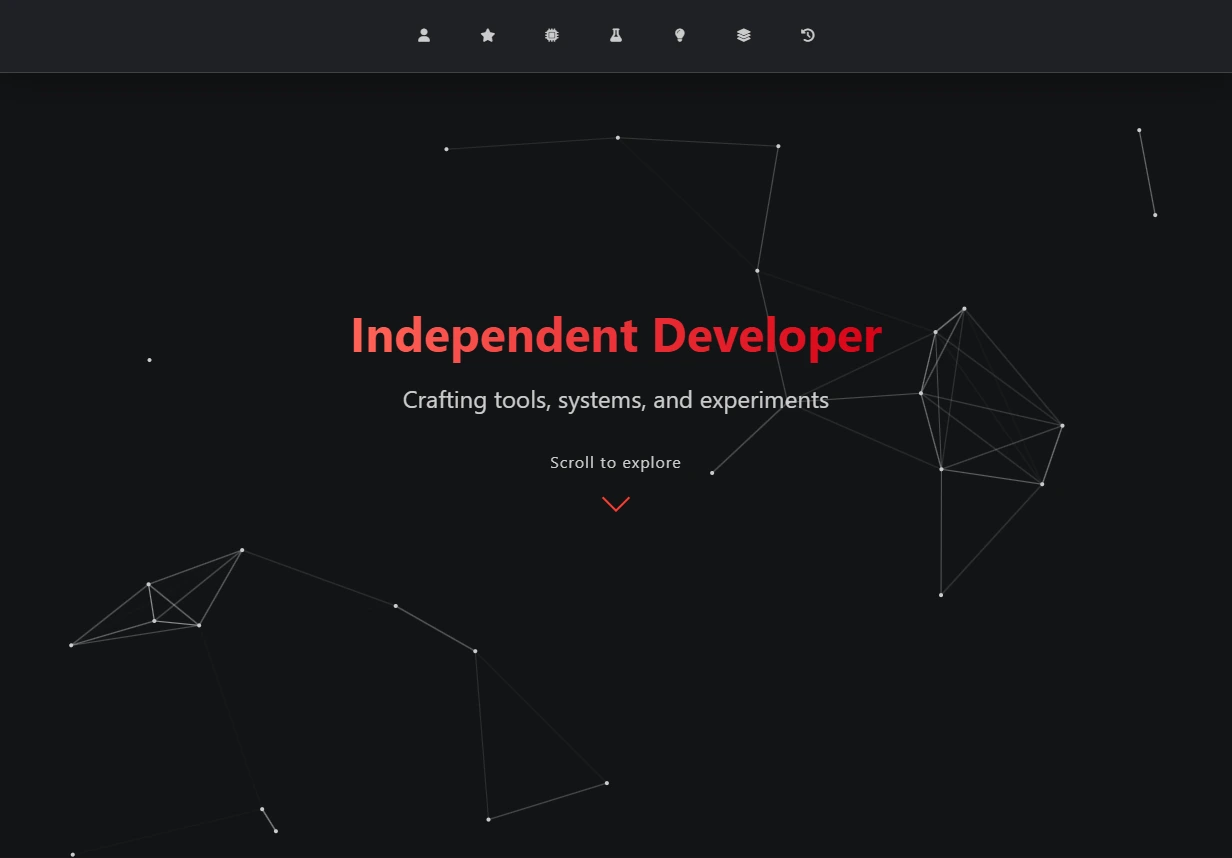
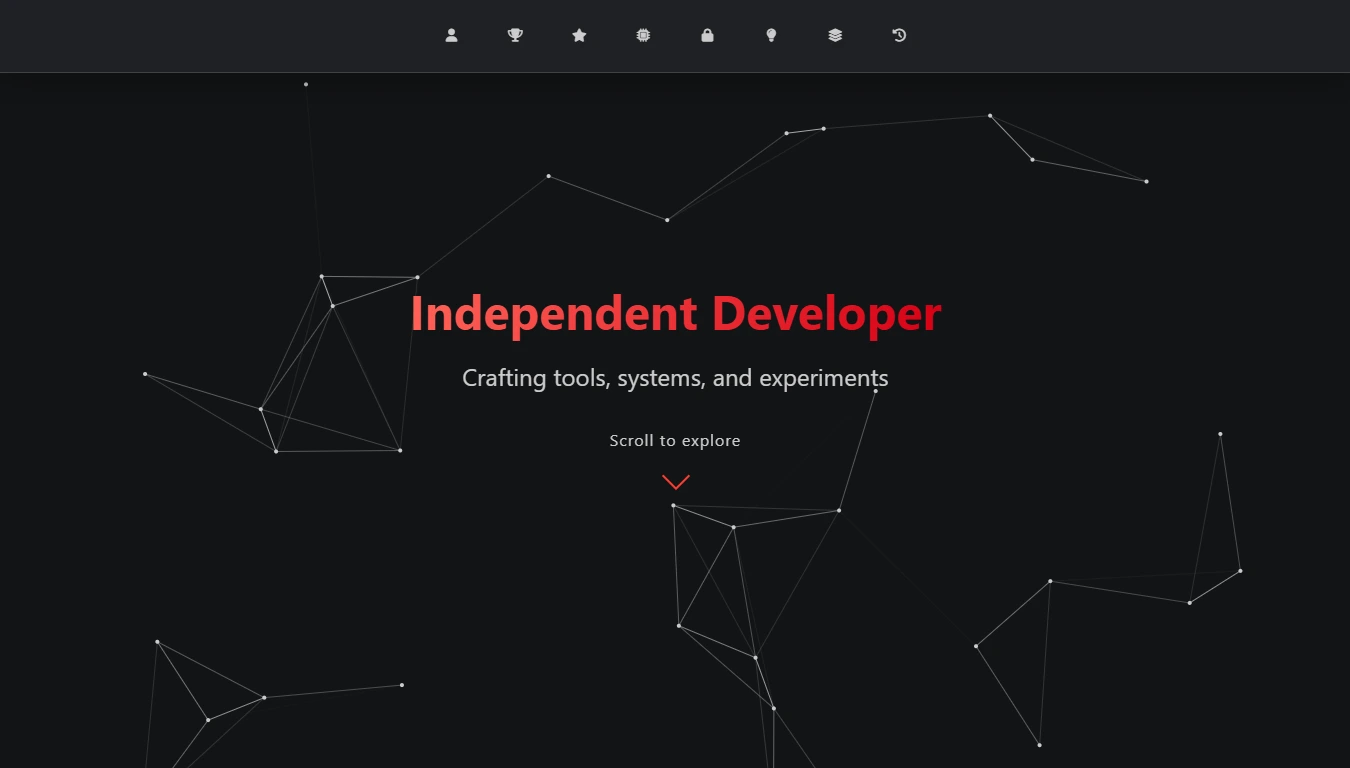
Added go fullscreen toast

diff --git a/scripts/extras.js b/scripts/extras.js
@@ -64,6 +64,59 @@ document.addEventListener("visibilitychange", function () {
   }
 });
 
+// ############################## //
+//  Fullscreen prompt on pageload //
+// ############################## //
+let fullscreenToast = null;
+
+function displayFullscreenPromptToast() {
+  if (fullscreenToast) return;
+
+  fullscreenToast = document.createElement("div");
+  fullscreenToast.className = "fullscreen-toast";
+  fullscreenToast.innerHTML = `
+    <p>You're missing something... fullscreen makes it visible.</p>
+    <div class="fullscreen-toast-buttons">
+      <button id="fullscreen-yes">Enter Fullscreen</button>
+      <button id="fullscreen-no">Not now</button>
+    </div>
+  `;
+
+  document.body.appendChild(fullscreenToast);
+
+  setTimeout(() => {
+    fullscreenToast.classList.add("show");
+  }, 100);
+
+  document.getElementById("fullscreen-yes").addEventListener("click", () => {
+    document.documentElement.requestFullscreen();
+    removeFullscreenPromptToast();
+  });
+
+  document
+    .getElementById("fullscreen-no")
+    .addEventListener("click", removeFullscreenPromptToast);
+}
+
+function removeFullscreenPromptToast() {
+  if (fullscreenToast && document.body.contains(fullscreenToast)) {
+    fullscreenToast.classList.remove("show");
+    setTimeout(() => {
+      if (fullscreenToast && document.body.contains(fullscreenToast)) {
+        document.body.removeChild(fullscreenToast);
+      }
+      fullscreenToast = null;
+    }, 500);
+  }
+}
+
+window.addEventListener("load", () => {
+  const isDesktopOS = /Windows|Macintosh|Linux/i.test(navigator.userAgent);
+  if (isDesktopOS) {
+    displayFullscreenPromptToast();
+  }
+});
+
 // #################### //
 //  Hero section toast  //
 // #################### //
@@ -295,7 +348,7 @@ if (document.readyState === "complete") {
     devToolsToast = document.createElement("div");
     devToolsToast.className = "devtools-toast";
     devToolsToast.innerHTML = `
-            <p>The source code of this page is readily available at:</p>
+            <p>The source code of this page is available at:</p>
             <a href="https://github.com/8gudbits/noman" target="_blank">github.com/8gudbits/noman</a>
             <p>You can check it out there...</p>
         `;

diff --git a/styles/extras.css b/styles/extras.css
@@ -31,6 +31,76 @@
     visibility: visible;
 }
 
+/* ############################## */
+/*  Fullscreen prompt on pageload */
+/* ############################## */
+.fullscreen-toast {
+    position: fixed;
+    top: 20px;
+    right: 20px;
+    background: var(--glass-bg);
+    backdrop-filter: blur(12px);
+    border: 1px solid var(--glass-border);
+    border-radius: 16px;
+    box-shadow: var(--glass-shadow);
+    padding: 1.5rem;
+    color: var(--text-primary);
+    z-index: 1000;
+    max-width: 300px;
+    transform: translateX(400px);
+    opacity: 0;
+    visibility: hidden;
+    transition: var(--transition-smooth);
+    font-family: "Segoe UI", Tahoma, Geneva, Verdana, sans-serif;
+    font-size: 0.9rem;
+    line-height: 1.5;
+}
+
+.fullscreen-toast.show {
+    transform: translateX(0);
+    opacity: 1;
+    visibility: visible;
+}
+
+.fullscreen-toast p {
+    margin: 0.5rem 0;
+    color: var(--text-secondary);
+}
+
+.fullscreen-toast p:first-child {
+    margin-top: 0;
+}
+
+.fullscreen-toast p:last-child {
+    margin-bottom: 0;
+    color: var(--text-primary);
+    font-style: italic;
+}
+
+.fullscreen-toast .fullscreen-toast-buttons {
+    margin-top: 1rem;
+    display: flex;
+    gap: 0.5rem;
+    justify-content: center;
+}
+
+.fullscreen-toast .fullscreen-toast-buttons button {
+    padding: 0.5rem 1rem;
+    background: rgba(255, 255, 255, 0.05);
+    border: 1px solid var(--glass-border);
+    border-radius: 8px;
+    color: var(--text-primary);
+    cursor: pointer;
+    font-weight: bold;
+    transition: var(--transition-smooth);
+}
+
+.fullscreen-toast .fullscreen-toast-buttons button:hover {
+    background: rgba(255, 255, 255, 0.1);
+    border-color: var(--accent-red);
+    color: var(--accent-light-red);
+}
+
 /* #################### */
 /*  Hero section toast  */
 /* #################### */
@@ -183,7 +253,7 @@
 }
 
 /* Responsive design for all toasts */
-@media (max-width: 768px) {
+@media (max-width: 572px) {
 
     .hero-toast,
     .about-toast,
